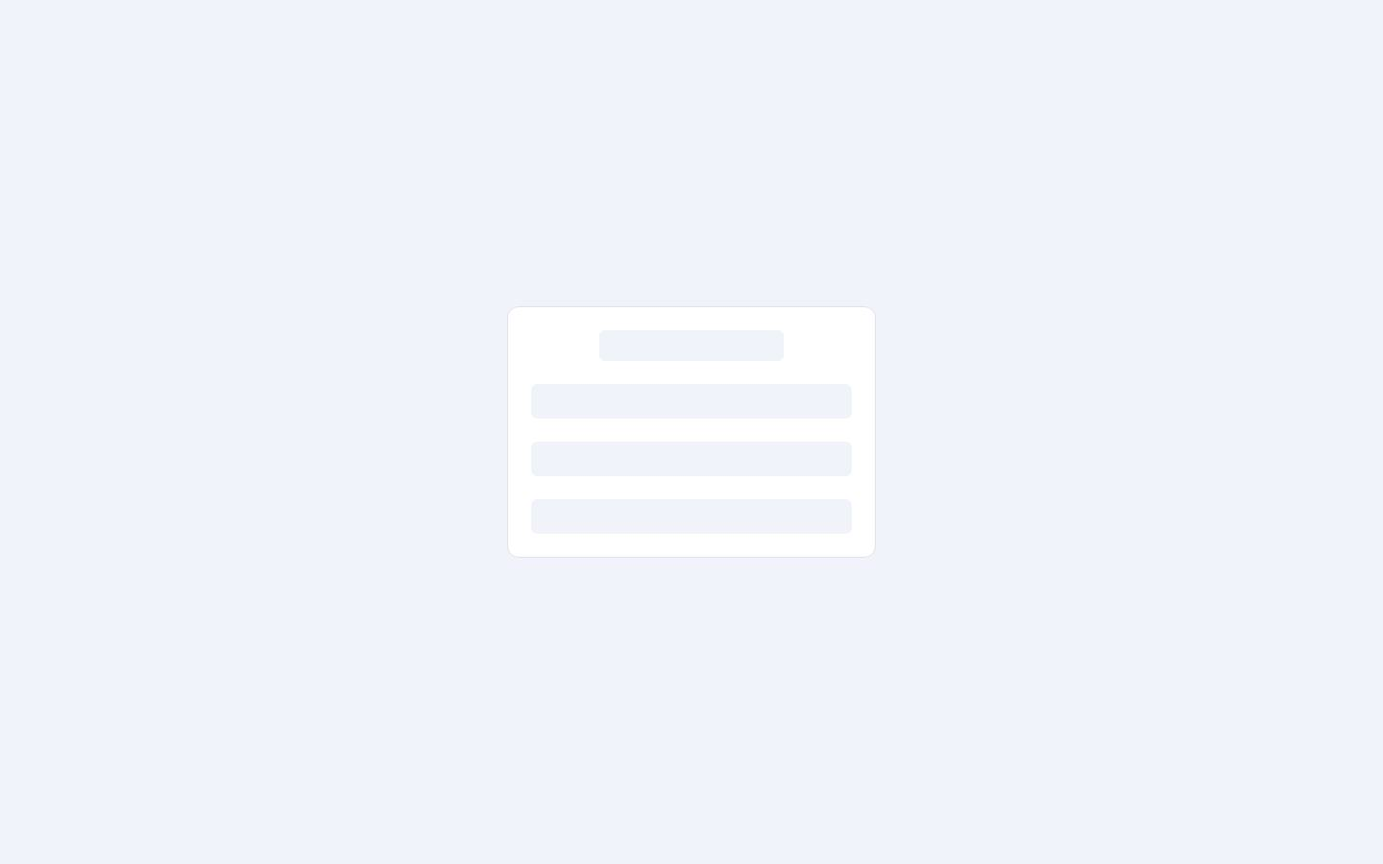
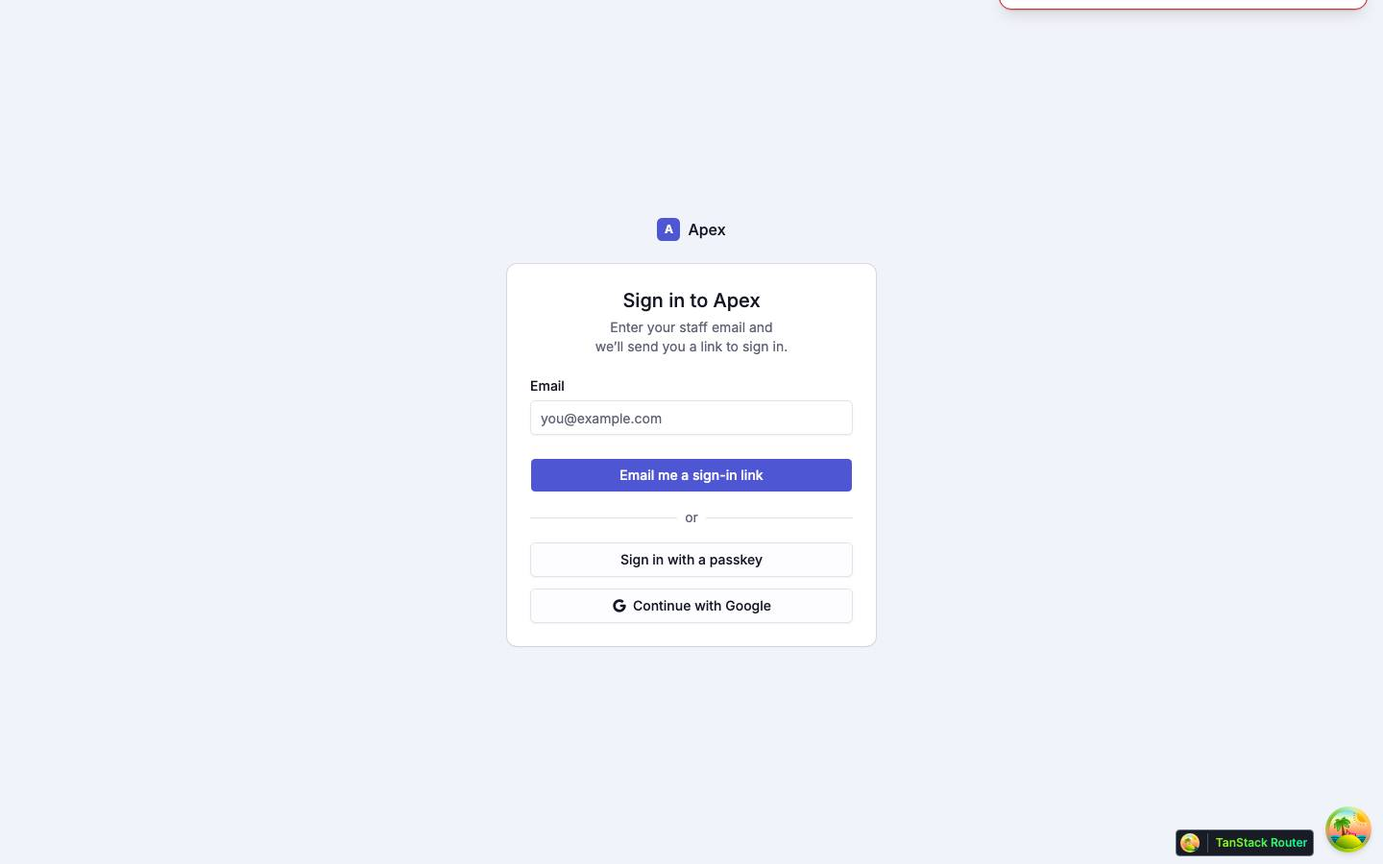
docs(pages): retake the boot frames and match boot.md to them
Login now keeps frames 00-11, Overview 00-15 and Tenants 00-12. Each
row, the shell description, the blank-frame timings and the handoff
paragraph now say what the new frames show.

Claude-Session: https://claude.ai/code/session_01LBUHBiS1uZqaGCvp3PdfXz

diff --git a/docs/pages/boot.md b/docs/pages/boot.md
@@ -22,28 +22,24 @@ The dev frames come from `vite dev` (`signed-…`). The production frames (`ngin
 
 ### Signed out, `/login`
 
-The auth shell paints the sign-in card as it renders: a title bar, a description bar, one labelled field bar, a button bar, a separator and a second button bar (`public/boot-variant.js` picks it, `index.html`'s `<style id="boot-shell">` draws it, and `AuthPending` matches it). The frames below were captured with the password-era card, a title bar and three field bars, and the password-era sign-in page; the final walk retakes them with `pnpm capture:pages`.
+The auth shell paints the sign-in card's outline as it renders: a title bar over a field bar and two button bars (`public/boot-variant.js` picks it, and `index.html`'s `<style id="boot-shell">` draws it).
 
-Dev (`signed-out-login`, 16 frames kept of 140 distinct, 3345 ms):
+Dev (`signed-out-login`, 12 frames kept of 34 distinct, 1149 ms):
 
-| Frame                                  | ms   | Moment        | What it shows                                                                                                                                                                                |
-| -------------------------------------- | ---- | ------------- | -------------------------------------------------------------------------------------------------------------------------------------------------------------------------------------------- |
-| ![](img/boot/signed-out-login--00.jpg) | 0    | first-paint   | A blank white page: the browser's own frame before the document paints.                                                                                                                      |
-| ![](img/boot/signed-out-login--01.jpg) | 100  | shell         | The auth shell: a card with a title bar and three field bars on the muted background, styled.                                                                                                |
-| ![](img/boot/signed-out-login--02.jpg) | 258  |               | The auth shell: a card with a title bar and three field bars on the muted background, styled. Only the shimmer differs.                                                                      |
-| ![](img/boot/signed-out-login--03.jpg) | 509  |               | The auth shell: a card with a title bar and three field bars on the muted background, styled. Only the shimmer differs.                                                                      |
-| ![](img/boot/signed-out-login--04.jpg) | 774  |               | The auth shell: a card with a title bar and three field bars on the muted background, styled. Only the shimmer differs.                                                                      |
-| ![](img/boot/signed-out-login--05.jpg) | 1024 |               | The auth shell: a card with a title bar and three field bars on the muted background, styled. Only the shimmer differs.                                                                      |
-| ![](img/boot/signed-out-login--06.jpg) | 1292 |               | The auth shell: a card with a title bar and three field bars on the muted background, styled. Only the shimmer differs.                                                                      |
-| ![](img/boot/signed-out-login--07.jpg) | 1542 |               | The auth shell: a card with a title bar and three field bars on the muted background, styled. Only the shimmer differs.                                                                      |
-| ![](img/boot/signed-out-login--08.jpg) | 1808 |               | The auth shell: a card with a title bar and three field bars on the muted background, styled. Only the shimmer differs.                                                                      |
-| ![](img/boot/signed-out-login--09.jpg) | 1942 |               | The auth shell: a card with a title bar and three field bars on the muted background, styled. Only the shimmer differs.                                                                      |
-| ![](img/boot/signed-out-login--10.jpg) | 2308 |               | The auth shell: a card with a title bar and three field bars on the muted background, styled. Only the shimmer differs.                                                                      |
-| ![](img/boot/signed-out-login--11.jpg) | 2575 |               | The auth shell: a card with a title bar and three field bars on the muted background, styled. Only the shimmer differs.                                                                      |
-| ![](img/boot/signed-out-login--12.jpg) | 2824 |               | The auth shell: a card with a title bar and three field bars on the muted background, styled. Only the shimmer differs.                                                                      |
-| ![](img/boot/signed-out-login--13.jpg) | 2924 | first-content | The auth shell: a card with a title bar and three field bars on the muted background, styled. The first frame at or after the DOM change; the compositor has not yet drawn the mounted page. |
-| ![](img/boot/signed-out-login--14.jpg) | 3225 |               | The password-era sign-in page: the app mark over the card with the Google button, the email and password fields and Sign in.                                                                 |
-| ![](img/boot/signed-out-login--15.jpg) | 3345 | ready         | The sign-in page. The TanStack devtools button (dev only) is in the corner.                                                                                                                  |
+| Frame                                  | ms   | Moment        | What it shows                                                                                                                                                                                             |
+| -------------------------------------- | ---- | ------------- | --------------------------------------------------------------------------------------------------------------------------------------------------------------------------------------------------------- |
+| ![](img/boot/signed-out-login--00.jpg) | 0    | first-paint   | A blank white page: the browser's own frame before the document paints.                                                                                                                                   |
+| ![](img/boot/signed-out-login--01.jpg) | 100  | shell         | The auth shell: a card with a title bar and three bars on the muted background, styled.                                                                                                                   |
+| ![](img/boot/signed-out-login--02.jpg) | 248  |               | The auth shell: a card with a title bar and three bars on the muted background, styled. Only the shimmer differs.                                                                                         |
+| ![](img/boot/signed-out-login--03.jpg) | 264  |               | The auth shell: a card with a title bar and three bars on the muted background, styled. Only the shimmer differs.                                                                                         |
+| ![](img/boot/signed-out-login--04.jpg) | 348  |               | The auth shell: a card with a title bar and three bars on the muted background, styled. Only the shimmer differs.                                                                                         |
+| ![](img/boot/signed-out-login--05.jpg) | 448  |               | The auth shell: a card with a title bar and three bars on the muted background, styled. Only the shimmer differs.                                                                                         |
+| ![](img/boot/signed-out-login--06.jpg) | 531  |               | The auth shell: a card with a title bar and three bars on the muted background, styled. Only the shimmer differs.                                                                                         |
+| ![](img/boot/signed-out-login--07.jpg) | 579  | first-content | The auth shell: a card with a title bar and three bars on the muted background, styled. The first frame at or after the DOM change; the compositor has not yet drawn the mounted page.                    |
+| ![](img/boot/signed-out-login--08.jpg) | 642  |               | The sign-in page: the app mark over the card with the Email field, Email me a sign-in link, Sign in with a passkey and Continue with Google.                                                              |
+| ![](img/boot/signed-out-login--09.jpg) | 968  |               | The same, with the TanStack devtools button (dev only) in the corner.                                                                                                                                     |
+| ![](img/boot/signed-out-login--10.jpg) | 1065 |               | The same, with an error toast sliding in at the top right.                                                                                                                                                |
+| ![](img/boot/signed-out-login--11.jpg) | 1149 | ready         | The sign-in page with the toast "We couldn’t complete that. Refresh the page, then try again.", from the passkey autofill request in the capture’s headless Chromium ([auth.md](auth.md#login--sign-in)). |
 
 Production (`nginx-signed-out-login`, 3 frames kept of 3 distinct, 186 ms):
 
@@ -55,23 +51,26 @@ Production (`nginx-signed-out-login`, 3 frames kept of 3 distinct, 186 ms):
 
 ### Signed in, `/overview`
 
-Dev (`signed-in-overview`, 13 frames kept of 116 distinct, 3341 ms):
+Dev (`signed-in-overview`, 16 frames kept of 49 distinct, 1008 ms):
 
 | Frame                                    | ms   | Moment        | What it shows                                                                                                                                                                                  |
 | ---------------------------------------- | ---- | ------------- | ---------------------------------------------------------------------------------------------------------------------------------------------------------------------------------------------- |
 | ![](img/boot/signed-in-overview--00.jpg) | 0    | first-paint   | A blank white page: the browser's own frame before the document paints.                                                                                                                        |
-| ![](img/boot/signed-in-overview--01.jpg) | 984  | shell         | The app shell: sidebar and header bars, a heading and subtitle bar and one large block, styled.                                                                                                |
-| ![](img/boot/signed-in-overview--02.jpg) | 1039 |               | The app shell: sidebar and header bars, a heading and subtitle bar and one large block, styled. Only the shimmer differs.                                                                      |
-| ![](img/boot/signed-in-overview--03.jpg) | 1291 |               | The app shell: sidebar and header bars, a heading and subtitle bar and one large block, styled. Only the shimmer differs.                                                                      |
-| ![](img/boot/signed-in-overview--04.jpg) | 1542 |               | The app shell: sidebar and header bars, a heading and subtitle bar and one large block, styled. Only the shimmer differs.                                                                      |
-| ![](img/boot/signed-in-overview--05.jpg) | 1792 |               | The app shell: sidebar and header bars, a heading and subtitle bar and one large block, styled. Only the shimmer differs.                                                                      |
-| ![](img/boot/signed-in-overview--06.jpg) | 2057 |               | The app shell: sidebar and header bars, a heading and subtitle bar and one large block, styled. Only the shimmer differs.                                                                      |
-| ![](img/boot/signed-in-overview--07.jpg) | 2308 |               | The app shell: sidebar and header bars, a heading and subtitle bar and one large block, styled. Only the shimmer differs.                                                                      |
-| ![](img/boot/signed-in-overview--08.jpg) | 2576 |               | The app shell: sidebar and header bars, a heading and subtitle bar and one large block, styled. Only the shimmer differs.                                                                      |
-| ![](img/boot/signed-in-overview--09.jpg) | 2824 |               | The app shell: sidebar and header bars, a heading and subtitle bar and one large block, styled. Only the shimmer differs.                                                                      |
-| ![](img/boot/signed-in-overview--10.jpg) | 2908 | first-content | The app shell: sidebar and header bars, a heading and subtitle bar and one large block, styled. The first frame at or after the DOM change; the compositor has not yet drawn the mounted page. |
-| ![](img/boot/signed-in-overview--11.jpg) | 3202 |               | The overview in the staff shell: sidebar, header, the five figure cards filled, both charts with bars, System status filled. The devtools button (dev only) is in the corner.                  |
-| ![](img/boot/signed-in-overview--12.jpg) | 3341 | ready         | The overview, the same. The bars are at full height.                                                                                                                                           |
+| ![](img/boot/signed-in-overview--01.jpg) | 27   | shell         | The app shell: sidebar and header bars, a heading and subtitle bar and one large block, styled.                                                                                                |
+| ![](img/boot/signed-in-overview--02.jpg) | 92   |               | The app shell: sidebar and header bars, a heading and subtitle bar and one large block, styled. Only the shimmer differs.                                                                      |
+| ![](img/boot/signed-in-overview--03.jpg) | 158  |               | The app shell: sidebar and header bars, a heading and subtitle bar and one large block, styled. Only the shimmer differs.                                                                      |
+| ![](img/boot/signed-in-overview--04.jpg) | 224  |               | The app shell: sidebar and header bars, a heading and subtitle bar and one large block, styled. Only the shimmer differs.                                                                      |
+| ![](img/boot/signed-in-overview--05.jpg) | 310  |               | The app shell: sidebar and header bars, a heading and subtitle bar and one large block, styled. Only the shimmer differs.                                                                      |
+| ![](img/boot/signed-in-overview--06.jpg) | 391  |               | The app shell: sidebar and header bars, a heading and subtitle bar and one large block, styled. Only the shimmer differs.                                                                      |
+| ![](img/boot/signed-in-overview--07.jpg) | 458  |               | The app shell: sidebar and header bars, a heading and subtitle bar and one large block, styled. Only the shimmer differs.                                                                      |
+| ![](img/boot/signed-in-overview--08.jpg) | 539  |               | The app shell: sidebar and header bars, a heading and subtitle bar and one large block, styled. Only the shimmer differs.                                                                      |
+| ![](img/boot/signed-in-overview--09.jpg) | 623  |               | The app shell: sidebar and header bars, a heading and subtitle bar and one large block, styled. Only the shimmer differs.                                                                      |
+| ![](img/boot/signed-in-overview--10.jpg) | 689  | first-content | The app shell: sidebar and header bars, a heading and subtitle bar and one large block, styled. The first frame at or after the DOM change; the compositor has not yet drawn the mounted page. |
+| ![](img/boot/signed-in-overview--11.jpg) | 697  |               | The overview in the staff shell: sidebar, header, the five figure cards filled, both charts with gridlines and no bars, and rows of skeleton bars in System status.                            |
+| ![](img/boot/signed-in-overview--12.jpg) | 778  |               | The same with System status filled; the charts’ first bars growing in.                                                                                                                         |
+| ![](img/boot/signed-in-overview--13.jpg) | 869  |               | The bars growing; the TanStack devtools button (dev only) appears in the corner.                                                                                                               |
+| ![](img/boot/signed-in-overview--14.jpg) | 927  |               | The bars almost at full height.                                                                                                                                                                |
+| ![](img/boot/signed-in-overview--15.jpg) | 1008 | ready         | The overview with the bars at full height.                                                                                                                                                     |
 
 Production (`nginx-signed-in-overview`, 16 frames kept of 46 distinct, 964 ms):
 
@@ -96,33 +95,31 @@ Production (`nginx-signed-in-overview`, 16 frames kept of 46 distinct, 964 ms):
 
 ### Signed in, `/tenants`
 
-Dev (`signed-in-tenants`, 15 frames kept of 93 distinct, 2137 ms):
+Dev (`signed-in-tenants`, 13 frames kept of 37 distinct, 972 ms):
 
-| Frame                                   | ms   | Moment        | What it shows                                                                                                                                                                                  |
-| --------------------------------------- | ---- | ------------- | ---------------------------------------------------------------------------------------------------------------------------------------------------------------------------------------------- |
-| ![](img/boot/signed-in-tenants--00.jpg) | 0    | first-paint   | A blank white page: the browser's own frame before the document paints.                                                                                                                        |
-| ![](img/boot/signed-in-tenants--01.jpg) | 41   | shell         | The app shell: sidebar and header bars, a heading and subtitle bar and one large block, styled.                                                                                                |
-| ![](img/boot/signed-in-tenants--02.jpg) | 156  |               | The app shell: sidebar and header bars, a heading and subtitle bar and one large block, styled. Only the shimmer differs.                                                                      |
-| ![](img/boot/signed-in-tenants--03.jpg) | 321  |               | The app shell: sidebar and header bars, a heading and subtitle bar and one large block, styled. Only the shimmer differs.                                                                      |
-| ![](img/boot/signed-in-tenants--04.jpg) | 488  |               | The app shell: sidebar and header bars, a heading and subtitle bar and one large block, styled. Only the shimmer differs.                                                                      |
-| ![](img/boot/signed-in-tenants--05.jpg) | 656  |               | The app shell: sidebar and header bars, a heading and subtitle bar and one large block, styled. Only the shimmer differs.                                                                      |
-| ![](img/boot/signed-in-tenants--06.jpg) | 821  |               | The app shell: sidebar and header bars, a heading and subtitle bar and one large block, styled. Only the shimmer differs.                                                                      |
-| ![](img/boot/signed-in-tenants--07.jpg) | 970  |               | The app shell: sidebar and header bars, a heading and subtitle bar and one large block, styled. Only the shimmer differs.                                                                      |
-| ![](img/boot/signed-in-tenants--08.jpg) | 1155 |               | The app shell: sidebar and header bars, a heading and subtitle bar and one large block, styled. Only the shimmer differs.                                                                      |
-| ![](img/boot/signed-in-tenants--09.jpg) | 1322 |               | The app shell: sidebar and header bars, a heading and subtitle bar and one large block, styled. Only the shimmer differs.                                                                      |
-| ![](img/boot/signed-in-tenants--10.jpg) | 1487 |               | The app shell: sidebar and header bars, a heading and subtitle bar and one large block, styled. Only the shimmer differs.                                                                      |
-| ![](img/boot/signed-in-tenants--11.jpg) | 1586 | first-content | The app shell: sidebar and header bars, a heading and subtitle bar and one large block, styled. The first frame at or after the DOM change; the compositor has not yet drawn the mounted page. |
-| ![](img/boot/signed-in-tenants--12.jpg) | 1619 |               | The app shell: sidebar and header bars, a heading and subtitle bar and one large block, styled. Only the shimmer differs.                                                                      |
-| ![](img/boot/signed-in-tenants--13.jpg) | 1976 |               | The tenants page in the staff shell: heading, search, filters, New tenant and the filled table.                                                                                                |
-| ![](img/boot/signed-in-tenants--14.jpg) | 2137 | ready         | The tenants page, the same, with the devtools button (dev only).                                                                                                                               |
+| Frame                                   | ms  | Moment        | What it shows                                                                                                                                                                                  |
+| --------------------------------------- | --- | ------------- | ---------------------------------------------------------------------------------------------------------------------------------------------------------------------------------------------- |
+| ![](img/boot/signed-in-tenants--00.jpg) | 0   | first-paint   | A blank white page: the browser's own frame before the document paints.                                                                                                                        |
+| ![](img/boot/signed-in-tenants--01.jpg) | 23  | shell         | The app shell: sidebar and header bars, a heading and subtitle bar and one large block, styled.                                                                                                |
+| ![](img/boot/signed-in-tenants--02.jpg) | 73  |               | The app shell: sidebar and header bars, a heading and subtitle bar and one large block, styled. Only the shimmer differs.                                                                      |
+| ![](img/boot/signed-in-tenants--03.jpg) | 155 |               | The app shell: sidebar and header bars, a heading and subtitle bar and one large block, styled. Only the shimmer differs.                                                                      |
+| ![](img/boot/signed-in-tenants--04.jpg) | 222 |               | The app shell: sidebar and header bars, a heading and subtitle bar and one large block, styled. Only the shimmer differs.                                                                      |
+| ![](img/boot/signed-in-tenants--05.jpg) | 290 |               | The app shell: sidebar and header bars, a heading and subtitle bar and one large block, styled. Only the shimmer differs.                                                                      |
+| ![](img/boot/signed-in-tenants--06.jpg) | 389 |               | The app shell: sidebar and header bars, a heading and subtitle bar and one large block, styled. Only the shimmer differs.                                                                      |
+| ![](img/boot/signed-in-tenants--07.jpg) | 454 | first-content | The app shell: sidebar and header bars, a heading and subtitle bar and one large block, styled. The first frame at or after the DOM change; the compositor has not yet drawn the mounted page. |
+| ![](img/boot/signed-in-tenants--08.jpg) | 494 |               | The tenants page in the staff shell: heading, search, filters, New tenant and the filled table.                                                                                                |
+| ![](img/boot/signed-in-tenants--09.jpg) | 806 |               | The same, with the TanStack devtools button (dev only) in the corner.                                                                                                                          |
+| ![](img/boot/signed-in-tenants--10.jpg) | 822 |               | The same.                                                                                                                                                                                      |
+| ![](img/boot/signed-in-tenants--11.jpg) | 905 |               | The same.                                                                                                                                                                                      |
+| ![](img/boot/signed-in-tenants--12.jpg) | 972 | ready         | The tenants page, the same.                                                                                                                                                                    |
 
 ## The first frame
 
-The shell's inline CSS paints it in both builds, so no frame of either build shows unstyled text or a bare browser page after the first blank frame, which is the browser's own. `globals.css` arrives later and only replaces the shell's own values with the same ones: the shell sets `box-sizing: border-box` on its own boxes, so under `vite dev` the sidebar edge is at 255 px from the first shell frame, where it stays once the stylesheet lands. The blank frame before the shell lasts 41 ms and 100 ms in two dev loads, 52–53 ms in the production loads and 984 ms in the dev overview load; nothing in the frames explains the longer one.
+The shell's inline CSS paints it in both builds, so no frame of either build shows unstyled text or a bare browser page after the first blank frame, which is the browser's own. `globals.css` arrives later and only replaces the shell's own values with the same ones: the shell sets `box-sizing: border-box` on its own boxes, so under `vite dev` the sidebar edge is at 255 px from the first shell frame, where it stays once the stylesheet lands. The blank frame before the shell lasts 23 ms, 27 ms and 100 ms in the three dev loads and 52–53 ms in the production loads.
 
 ## The handoff
 
-On `/login` the frame after the shell is the page. On an `_app` page React mounts once the first load has resolved and the templates are in, and there is no tenant guard in this app, so the first app frame is the staff shell with the page itself: the overview's figure cards are already filled (the page's loader started its reads while the boot shell was up), its charts show gridlines until the data lands and System status shows skeleton rows (`signed-in-overview` frame 11 in dev has everything landed already; `nginx-signed-in-overview` frame 09 is the one that shows the sections still loading). The `/tenants` table is drawn in its first page frame. The router's own pending templates (`defaultPendingMs`, 300 ms) show only on an in-app navigation still pending after that.
+On `/login` the frame after the shell is the page. On an `_app` page React mounts once the first load has resolved and the templates are in, and there is no tenant guard in this app, so the first app frame is the staff shell with the page itself: the overview's figure cards are already filled (the page's loader started its reads while the boot shell was up), its charts show gridlines until the data lands and System status shows skeleton rows (`signed-in-overview` frame 11 in dev and `nginx-signed-in-overview` frame 09). The `/tenants` table is drawn in its first page frame. The router's own pending templates (`defaultPendingMs`, 300 ms) show only on an in-app navigation still pending after that.
 
 ## In-app navigation
 
